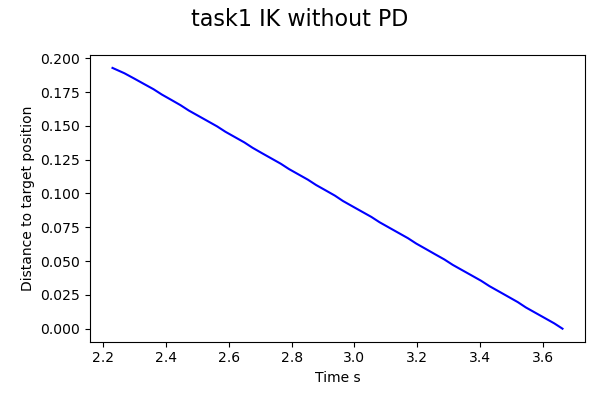
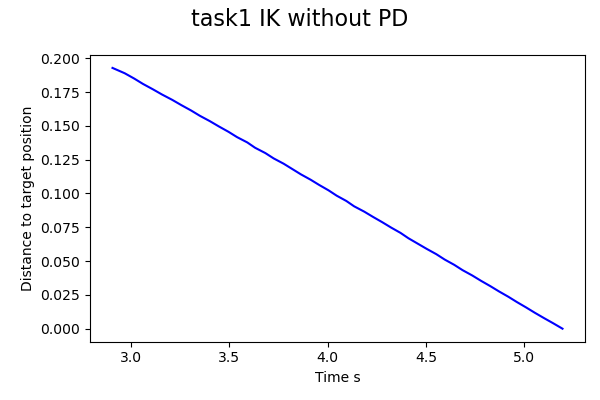
update

diff --git a/task3_2/task3_2.py b/task3_2/task3_2.py
@@ -144,54 +144,97 @@ def solution():
     for path in paths:
         sim.clamp(leftEndEffector=path['left'], leftTargetPosition=path['leftTargetPosition'], leftOrientation=path['leftOrientation'], rightEndEffector=path['right'], rightTargetPosition=path['rightTargetPosition'], rightOrientation=path['rightOrientation'], iterNum=path['iterNum'])
 
-    # twist
     currentLeftPosition = sim.getJointPosition(jointName='LARM_JOINT5').T[0][:2]
     currentRightPosition = sim.getJointPosition(jointName='RARM_JOINT5').T[0][:2]
     targetPosition = finalTargetPos[:2]
-    obstaclePosition = np.array([0.40,0.275,0.9][:2]) # np.add(obstaclePosition, np.array([-0.03, 0.02])) 
-    left_points = [currentLeftPosition, np.add(obstaclePosition, np.array([-0.03, 0.02])), np.add(targetPosition, np.array([-0.03, 0.02]))]
-    right_points = [currentRightPosition, np.add(obstaclePosition, np.array([-0.05, 0.18])), np.add(targetPosition, np.array([-0.05, 0.18]))]
-    xs_left, y_left = sim.cubic_interpolation(left_points, gap=0.02)
-    xs_right, y_right = sim.cubic_interpolation(right_points, gap=0.02)
+    obstaclePosition = np.array([0.43,0.275,0.9][:2]) # np.add(obstaclePosition, np.array([-0.03, 0.02])) 
+    left_points = [currentLeftPosition, np.add(obstaclePosition, np.array([0, 0])), np.add(targetPosition, np.array([-0.03, 0.02]))]
+    right_points = [currentRightPosition, np.add(obstaclePosition, np.array([0, 0.26])), np.add(targetPosition, np.array([0, 0.26]))]
+    y_left, x_left = sim.cubic_interpolation(left_points, gap=0.04)
+    y_right, x_right = sim.cubic_interpolation(right_points, gap=0.04)
 
-    xs_left = np.flip(xs_left)
-    y_left = np.flip(y_left)
-
-    xs_right = np.flip(xs_right)    
-    y_right = np.flip(y_right)
 
     paths_twist_1 = []
-    for num in range(2):
+    for num in range(len(y_left-3)):
+        # paths_twist_1.append(
+        #     {
+        #         'left': 'LARM_JOINT5',
+        #         'leftTargetPosition': np.array(np.add(np.array([x_left[num], y_left[num], 1.18]), np.array([0.01, -0.02, -0.01]))),
+        #         'leftOrientation': None,
+        #         'right': 'RARM_JOINT5',
+        #         'rightTargetPosition': np.array(np.add(np.array([x_right[num], y_right[num], 1.18]), np.array([-0.10, 0.10, -0.01]))),
+        #         'rightOrientation': None,
+        #         'iterNum': 5
+        #     }
+        # )
         paths_twist_1.append(
             {
                 'left': 'LARM_JOINT5',
-                'leftTargetPosition': np.array(np.add(np.array([xs_left[num], y_left[num], 1.18]), np.array([0.01, -0.02, -0.01]))),
-                'leftOrientation': np.array([0.9, 0, 0]),
+                'leftTargetPosition': np.array(np.add(np.array([x_left[num], y_left[num], 1.18]), np.array([0, 0, 0]))),
+                'leftOrientation': None,
                 'right': 'RARM_JOINT5',
-                'rightTargetPosition': np.array(np.add(np.array([xs_right[num], y_right[num], 1.18]), np.array([0.01, 0.03, -0.01]))),
-                'rightOrientation': np.array([0.9, 0, 0]),
-                'iterNum': 20
+                'rightTargetPosition': np.array(np.add(np.array([x_right[num], y_right[num], 1.18]), np.array([0, 0, 0]))),
+                'rightOrientation': None,
+                'iterNum': 8
             }
         )
 
+    i = 0
     for path in paths_twist_1:
+        i += 1
+        print('i', i)
         sim.clamp(leftEndEffector=path['left'], leftTargetPosition=path['leftTargetPosition'], leftOrientation=path['leftOrientation'], rightEndEffector=path['right'], rightTargetPosition=path['rightTargetPosition'], rightOrientation=path['rightOrientation'], iterNum=path['iterNum'])
         print(sim.getJointPosition(jointName='LARM_JOINT5').T[0][:2])
         print(sim.getJointPosition(jointName='RARM_JOINT5').T[0][:2])
 
-    path_forward = [
-        {
-            'left': 'LARM_JOINT5',
-            'leftTargetPosition': np.array([0.50, 0.08, 1.18]),
-            'leftOrientation': None,
-            'right': 'RARM_JOINT5',
-            'rightTargetPosition': np.array([0.50, -0.08, 1.18]),
-            'rightOrientation': None,
-            'iterNum': 10
-        },
-    ]
-    for path in path_forward:
-        sim.clamp(leftEndEffector=path['left'], leftTargetPosition=path['leftTargetPosition'], leftOrientation=path['leftOrientation'], rightEndEffector=path['right'], rightTargetPosition=path['rightTargetPosition'], rightOrientation=path['rightOrientation'], iterNum=path['iterNum'])
+    # twist
+    # currentLeftPosition = sim.getJointPosition(jointName='LARM_JOINT5').T[0][:2]
+    # currentRightPosition = sim.getJointPosition(jointName='RARM_JOINT5').T[0][:2]
+    # targetPosition = finalTargetPos[:2]
+    # obstaclePosition = np.array([0.40,0.275,0.9][:2]) # np.add(obstaclePosition, np.array([-0.03, 0.02])) 
+    # left_points = [currentLeftPosition, np.add(obstaclePosition, np.array([-0.03, 0.02])), np.add(targetPosition, np.array([-0.03, 0.02]))]
+    # right_points = [currentRightPosition, np.add(obstaclePosition, np.array([-0.05, 0.18])), np.add(targetPosition, np.array([-0.05, 0.18]))]
+    # xs_left, y_left = sim.cubic_interpolation(left_points, gap=0.02)
+    # xs_right, y_right = sim.cubic_interpolation(right_points, gap=0.02)
+
+    # xs_left = np.flip(xs_left)
+    # y_left = np.flip(y_left)
+
+    # xs_right = np.flip(xs_right)    
+    # y_right = np.flip(y_right)
+
+    # paths_twist_1 = []
+    # for num in range(2):
+    #     paths_twist_1.append(
+    #         {
+    #             'left': 'LARM_JOINT5',
+    #             'leftTargetPosition': np.array(np.add(np.array([xs_left[num], y_left[num], 1.18]), np.array([0.01, -0.02, -0.01]))),
+    #             'leftOrientation': None,
+    #             'right': 'RARM_JOINT5',
+    #             'rightTargetPosition': np.array(np.add(np.array([xs_right[num], y_right[num], 1.18]), np.array([0.01, 0.03, -0.01]))),
+    #             'rightOrientation': None,
+    #             'iterNum': 20
+    #         }
+    #     )
+
+    # for path in paths_twist_1:
+    #     sim.clamp(leftEndEffector=path['left'], leftTargetPosition=path['leftTargetPosition'], leftOrientation=path['leftOrientation'], rightEndEffector=path['right'], rightTargetPosition=path['rightTargetPosition'], rightOrientation=path['rightOrientation'], iterNum=path['iterNum'])
+    #     print(sim.getJointPosition(jointName='LARM_JOINT5').T[0][:2])
+    #     print(sim.getJointPosition(jointName='RARM_JOINT5').T[0][:2])
+
+    # path_forward = [
+    #     {
+    #         'left': 'LARM_JOINT5',
+    #         'leftTargetPosition': np.array([0.50, 0.08, 1.18]),
+    #         'leftOrientation': None,
+    #         'right': 'RARM_JOINT5',
+    #         'rightTargetPosition': np.array([0.50, -0.08, 1.18]),
+    #         'rightOrientation': None,
+    #         'iterNum': 10
+    #     },
+    # ]
+    # for path in path_forward:
+    #     sim.clamp(leftEndEffector=path['left'], leftTargetPosition=path['leftTargetPosition'], leftOrientation=path['leftOrientation'], rightEndEffector=path['right'], rightTargetPosition=path['rightTargetPosition'], rightOrientation=path['rightOrientation'], iterNum=path['iterNum'])
 
     # Interpolate the path through cubic spline function
     # currentLeftPosition = sim.getJointPosition(jointName='LARM_JOINT5').T[0][:2]

diff --git a/core/Pybullet_Simulation.py b/core/Pybullet_Simulation.py
@@ -976,21 +976,27 @@ kukaId
         # point_gap = (point_num - 1) / nTimes
 
         # xs = np.arange(0, (point_num - 1) + point_gap, point_gap)
+
         x = np.array([])
         y = np.array([])
         for point in points:
             x = np.append(x, point[0])
             y = np.append(y, point[1])
-        if (x[0] > x[1]):
-            x = np.flip(x)
-            y = np.flip(y)
-        cs = CubicSpline(x, y)
-        xs = np.arange(x[0], x[len(points)-1], gap)
+        
+        print('y', y)
+        print('x', x)
+        # if (x[0] > x[1]):
+        #     x = np.flip(x)
+        #     y = np.flip(y)
 
-
+        cs = CubicSpline(y, x)
+        xs = np.arange(y[0], y[len(points)-1], gap)
         return xs, cs(xs)
 
         #return xpoints, ypoints
+    
+    # def path_interpolation(self, points, gap=0.01):
+        
 
     # Task 3.1 Pushing
     # def dockingToPosition(self, leftTargetAngle, rightTargetAngle, angularSpeed=0.005,
